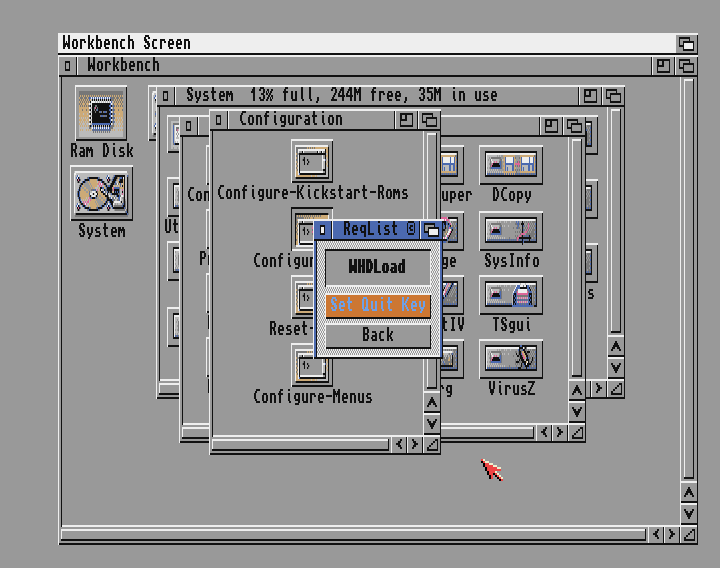
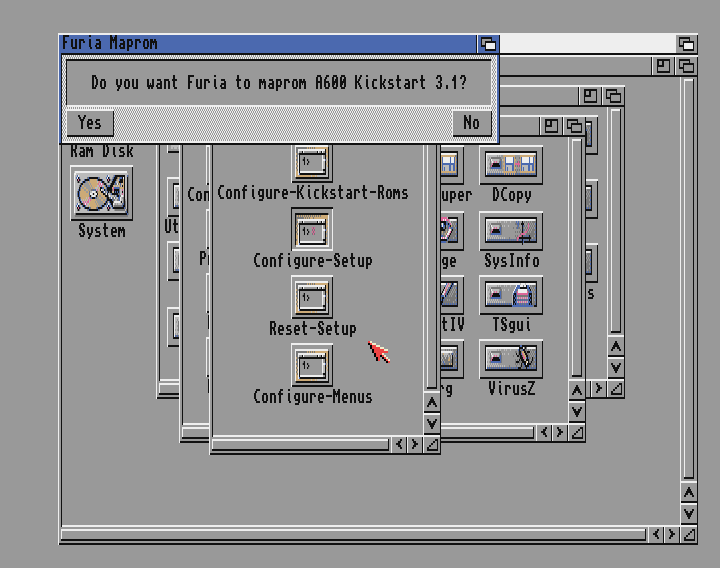
Updated readme and screenshots with almost full details

Changed region(s): [[0.0611, 0.0599, 0.7028, 0.2694], [0.4278, 0.3592, 0.6417, 0.6585], [0.6722, 0.8081, 0.7028, 0.868]]

diff --git a/README.md b/README.md
@@ -30,6 +30,195 @@ Installation of HstWB package requires and uses following assign and default val
 
 HstWB files will be installed and configured in SYSTEMDIR: assign, which must be set to harddrive containing Workbench.
 
+## Build-in support for accelerator cards
+
+HstWB has build-in support for following accelerator cards:
+
+- Blizzard 1230, 1240, 1260 and PPC accelerator cards by Phase 5 with MAPROM jumper enabled using BlitzKick v1.24.
+- ACA 620, 630, 1220, 1221, 1230, 1231, 1232 accelerator cards by Individual Computers using ACATune v1.91.
+- Furia A600 accelerator cards by Boris Krizma for using FuriaTune v1.4.
+
+Picture showing MAPROM jumper enabled on Blizzard 1230 MK-IV accelerator card.
+
+![Blizzard 1230 MK-IV MAPROM Enabled](screenshots/blizzard_1230_mk-iv_maprom_enabled.jpg?raw=true)
+
+## Boot selectors
+
+HstWB has 2 boot selectors installed, which can be enabled using configure setup:
+
+1. Amiga Boot Selector
+2. Multi Boot
+
+### Amiga Boot Selector
+
+Amiga Boot Selector is a fullscreen boot selector with smooth drop in and out effects when loading and a boot option is selected. It allows selecting boot options using arrow keys and enter or joystick in port 2. Mouse is not supported. 
+
+HstWB is configured with following boot options in Amiga Boot Selector:
+
+1. Games: Starts AGS2 games menu, if it's installed.
+2. Demos: Starts AGS2 demos menu, if it's installed.
+3. Workbench: Starts Workbench and enabled patches.
+4. CLI: Starts CLI for maximum avialable memory.
+
+A 5 second timer will automatically select last used boot option, which by default is Games.
+
+Amiga Boot Selector can be changed by pressing F1. This allows changing existing boot options or add new ones.
+
+![HstWB 2](screenshots/hstwb_2.png?raw=true)
+
+### Multi Boot
+
+Multi boot is a simple boot selector presented like a request dialog with buttons per boot option. It only supports mouse in port 1. 
+
+HstWB is configured with following boot options in Multi Boot:
+
+1. Games: Starts AGS2 games menu, if it's installed.
+2. Demos: Starts AGS2 demos menu, if it's installed.
+3. Workbench: Starts Workbench and enabled patches.
+4. CLI: Starts CLI for maximum avialable memory.
+
+A 5 second timer will automatically select default boot option, which is Games by default and can be changed using configure setup.
+
+![HstWB 3](screenshots/hstwb_3.png?raw=true)
+
+## Configure setup
+
+Configure setup is a menu to change hardware, device & library, boot sequence and WHDLoad settings. 
+It's build using AmigaDOS script and ReqList to make menus for easily changing options.
+
+Configure setup can be started in 2 following ways:
+
+- Double-click Workbench, System, Programs, Configuration and Configure-Setup icon.
+- Hold down right mouse button during boot.
+
+Start of configure setup during boot has been added as a recovery option allowing setup to be reset or changed, if boot sequence or Workbench could result in a crash.
+
+![HstWB 6](screenshots/hstwb_6.png?raw=true)
+
+### Configure setup main menu
+
+Configure setup main menu has following options:
+
+- Hardware: Enters hardware menu.
+- Device & Library: Enters device & library menu.
+- Boot Sequence: Enters boot sequence menu.
+- WHDLoad: Enters WHDLoad menu.
+- Reset: Resets configuration to default and reboot system with a delay of 10 seconds.
+- Reboot: Reboot system with a delay of 10 seconds.
+- Exit: Exit Configure setup.
+
+![HstWB 7](screenshots/hstwb_7.png?raw=true)
+
+### Hardware menu
+
+Hardware menu has following options:
+
+- Use Blizzard: Enables or disables BlizKick for Blizzard accelerator cards during boot.
+- Use ACA: Enables or disables ACATune for ACA accelerator cards during boot.
+- Use Furia: Enables or disables FuriaTune for Furia accelerator cards during boot.
+- Use 020+ CPU: Enables or disables use of 020+ CPU by replacing executables and libraries with either 68000 or 68020+ versions.
+- Use FPU: Enables or disables use of FPU by replacing libraries with either 68000 or 68020+ versions.
+- Use OS Patches: Enables or disables BlazeWCP, FBlit and FText during Workbench startup.
+- Back: Back to configure setup main menu.
+
+![HstWB 8](screenshots/hstwb_8.png?raw=true)
+
+Enabling Use Blizzard asks to maprom A1200 Kickstart 3.1.
+
+![HstWB 9](screenshots/hstwb_9.png?raw=true)
+
+Enabling Use ACA asks to maprom A600 Kickstart 3.1.
+
+![HstWB 10](screenshots/hstwb_10.png?raw=true)
+
+Enabling Use ACA asks to maprom A1200 Kickstart 3.1.
+
+![HstWB 11](screenshots/hstwb_11.png?raw=true)
+
+Enabling Use Furia asks to maprom A600 Kickstart 3.1.
+
+![HstWB 12](screenshots/hstwb_12.png?raw=true)
+
+### Device & Library menu
+
+Device & Library menu has following options:
+
+- Load scsi.device: Enables or disables loading DEVS:scsi.device during boot, if DEVS:scsi.device exist and uses either LoadModule or BlitzKick depending on Use Blizzard being enabled or disabled.
+- Load icon.library: Enables or disables loading LIBS:icon.library during boot, if DEVS:scsi.device exist and uses either LoadModule or BlitzKick depending on Use Blizzard being enabled or disabled.
+- Select scsi.device: Enters select scsi.device menu.
+- Back: Back to configure setup main menu.
+
+![HstWB 13](screenshots/hstwb_13.png?raw=true)
+
+### Select scsi.device menu
+
+Select scsi.device menu has following options:
+
+- Build-in (Kickstart ROM): Disables loading scsi.device during boot by deleting DEVS:scsi.device and uses scsi.device from Kickstart rom.
+- v43.35 Chris/Toni A1200: Selects and copies v43.35 Chris/Toni A1200 patched scsi.device to DEVS:scsi.device. It supports harddrives larger than 4GB and is the recommended choice.
+- v43.46 Cosmos A600/A1200: Selects and copies v43.46 Cosmos A600/A1200 patched scsi.device to DEVS:scsi.device. It supports harddrives larger than 4GB and has some experimental optimizations.
+- v43.47 Cosmos A600/A1200: Selects and copies v43.47 Cosmos A600/A1200 patched scsi.device to DEVS:scsi.device. It supports harddrives larger than 4GB and has some experimental optimizations.
+- v44.20 Doobrey A600: Selects and copies v44.20 Doobrey A600 patched scsi.device to DEVS:scsi.device. It supports harddrives larger than 4GB and has ide speed optimizations similar to BlitzKick SpeedyIDE.
+- v44.20 Doobrey A1200: Selects and copies v44.20 Doobrey A1200 patched scsi.device to DEVS:scsi.device. It supports harddrives larger than 4GB and has ide speed optimizations similar to BlitzKick SpeedyIDE.
+- Back: Back to configure setup main menu.
+
+![HstWB 14](screenshots/hstwb_14.png?raw=true)
+
+### Boot Sequence menu
+
+Boot Sequence menu has following options:
+
+- Start ABS: Enables or disables start of Amiga Boot Selector during boot.
+- Start MultiBoot: Enables or disables start of Multi Boot during boot.
+- Select MultiBoot Default: Selects Multi Bool default boot option, which will be selected when the timer runs out.
+- Start AGS2 Games: Enables or disables start of AGS2 games menu during boot.
+- Start AGS2 Demos: Enables or disables start of AGS2 demos menu during boot.
+- Back: Back to configure setup main menu.
+
+![HstWB 15](screenshots/hstwb_15.png?raw=true)
+
+### WHDLoad menu
+
+WHDLoad menu has following options:
+
+- Set Quit Key: Select global quit key for WHDLoad, which can be F10, Help, Del, NumL, ScrL, SysRq, PrtSc or Default.
+- Back: Back to configure setup main menu.
+
+Setting a quit key is very usefor for A600 users as default quit key is often a key not available on A600 keyboard.
+
+![HstWB 16](screenshots/hstwb_16.png?raw=true)
+
+![HstWB 17](screenshots/hstwb_17.png?raw=true)
+
+## Configure kickstart roms
+
+Configure kickstart roms is a menu to install or reset Kickstart roms for WHDLoad.
+It's build using AmigaDOS script and ReqList to make menus for easily changing options.
+
+Configure kickstart roms can be started by double-click Workbench, System, Programs, Configuration and Configure-Kickstart-Roms icon.
+
+![HstWB 6](screenshots/hstwb_6.png?raw=true)
+
+### Configure kickstart roms main menu
+
+Configure kickstart roms main menu has following options:
+
+- kick33180.A500: Indicates if Cloanto Amiga Forever or Custom Kickstart 1.2 (33.180) (A500) rom is installed in DEVS:Kickstarts.
+- kick34005.A500: Indicates if Kickstart 1.3 (34.5) (A500) rom is installed in DEVS:Kickstarts.
+- kick40063.A600: Indicates if Kickstart 3.1 (40.063) (A600) rom is installed in DEVS:Kickstarts.
+- kick40068.A1200: Indicates if Kickstart 3.1 (40.068) (A1200) rom is installed in DEVS:Kickstarts.
+- kick40068.A4000: Indicates if Kickstart 3.1 (40.068) (A4000) rom is installed in DEVS:Kickstarts.
+- rom.key: Indicates if Cloanto Amiga Forever rom key is installed in DEVS:Kickstarts.
+- Install Kickstart Roms: Install Kickstart roms from a selected drawer. MD5 checksum is calculated for each file in selected drawer used to identify and install Kickstart roms in DEVS:Kickstarts.
+- Reset Kickstart Roms: Resets installed Kickstart roms by deleting Kickstart roms and rom.key files from DEVS:Kickstarts.
+- Exit: Exit Configure kickstart roms.
+
+**Note: Cloanto Amiga Forever Kickstart roms are encrypted and requires their rom.key is installed. Otherwise WHDLoad can't use Cloanto Amiga Forever Kickstart roms.**
+
+![HstWB 18](screenshots/hstwb_18.png?raw=true)
+
+![HstWB 19](screenshots/hstwb_19.png?raw=true)
+
 ## Screenshots
 
 Screenshots of HstWB.
@@ -63,3 +252,11 @@ Screenshots of HstWB.
 ![HstWB 14](screenshots/hstwb_14.png?raw=true)
 
 ![HstWB 15](screenshots/hstwb_15.png?raw=true)
+
+![HstWB 16](screenshots/hstwb_16.png?raw=true)
+
+![HstWB 17](screenshots/hstwb_17.png?raw=true)
+
+![HstWB 18](screenshots/hstwb_18.png?raw=true)
+
+![HstWB 19](screenshots/hstwb_19.png?raw=true)
